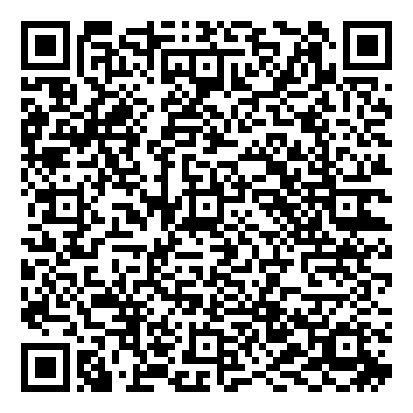
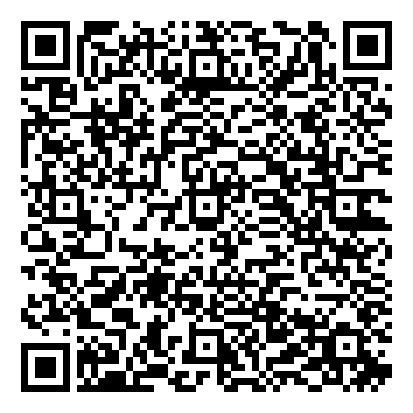
add wedding

diff --git a/file/wedding/support.html b/file/wedding/support.html
@@ -52,11 +52,11 @@
     		<h3 class="w-cfz">微信AA筹款－快速随份子</h3>
 	    </div>
     	<div class="pure-u-1 w-rmb">
-    		<div class="rmb-pic"><img class="pure-img" src="img/rmb1.jpg"></div>
+    		<div class="rmb-pic"><img class="pure-img" src="img/rmb100.jpg"></div>
     		<div class="rmb-title">一百元(扫一扫／长按图片识别)</div>
 	    </div>
 	    <div class="pure-u-1 w-rmb">
-    		<div class="rmb-pic"><img class="pure-img" src="img/rmb1.jpg"></div>
+    		<div class="rmb-pic"><img class="pure-img" src="img/rmb20.jpg"></div>
     		<div class="rmb-title">二十元(扫一扫／长按图片识别)</div>
 	    </div>
 	    <div class="pure-u-1 w-rmb">
